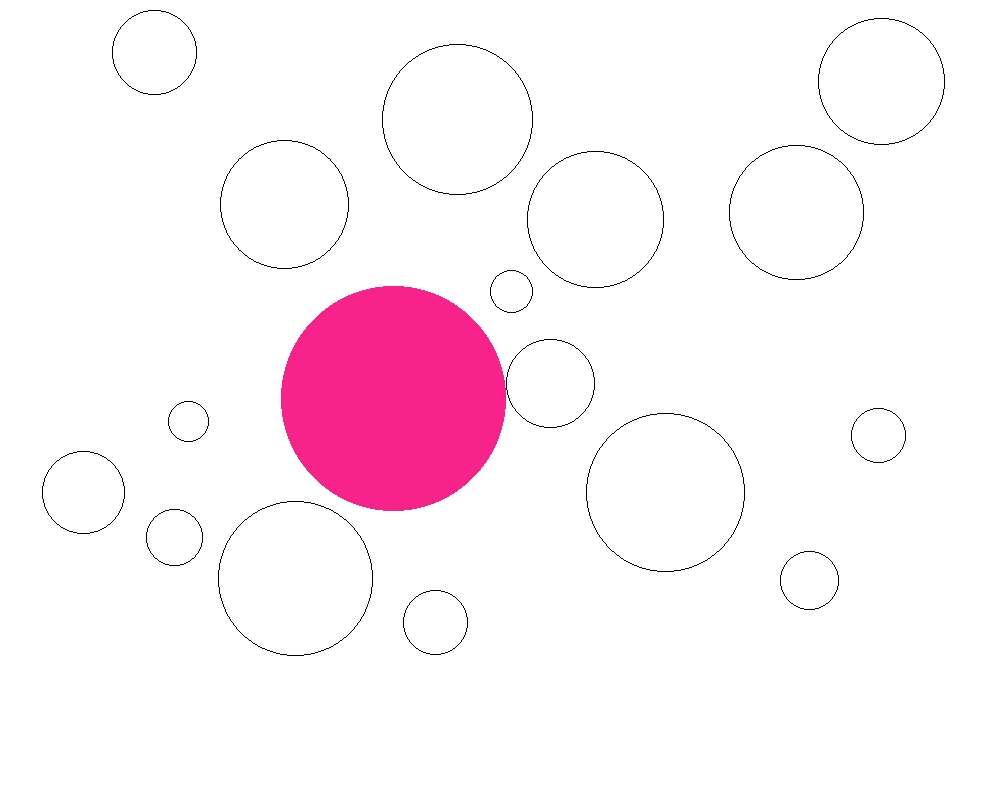
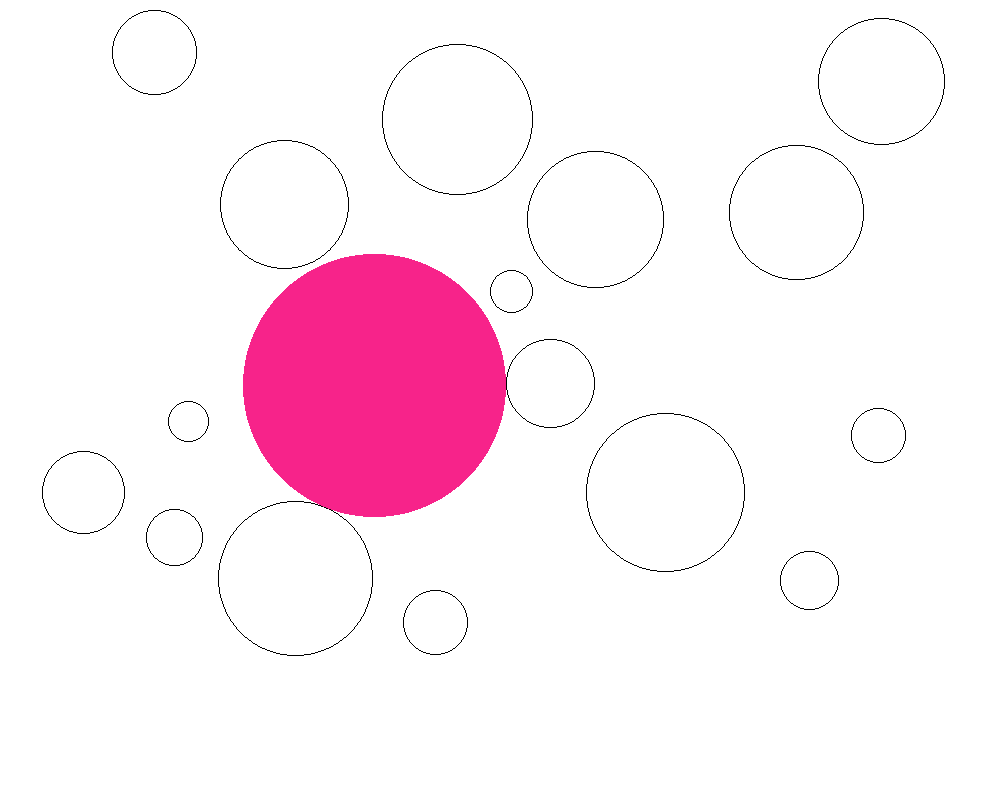
barbie pink biggest circle

Changed region(s): [[0.217, 0.3125, 0.496, 0.6562], [0.496, 0.4375, 0.527, 0.4688], [0.465, 0.5625, 0.496, 0.5938]]

diff --git a/gen5.py b/gen5.py
@@ -31,29 +31,52 @@ def evaluate_circle_size(x, y, radius, other_circles):
         return radius
     return 0
 
-# Algoritmo genético para encontrar el círculo más grande posible sin colisiones
 def genetic_algorithm(circles_data, canvas_width, canvas_height):
-    max_radius = min(canvas_width, canvas_height) // 2  # El radio máximo posible
-    
-    # Inicializar el mejor círculo con el más grande de los círculos existentes
-    best_circle = max(circles_data, key=lambda x: x[2])
+    max_radius = min(canvas_width, canvas_height) // 2
 
-    population_size = 100  # Tamaño de la población
-    generations = 100  # Número de generaciones
+    # Initialize population with random circles
+    population_size = 1500
+    population = [(random.randint(0, canvas_width), random.randint(0, canvas_height), random.randint(1, max_radius)) for _ in range(population_size)]
 
-    for generation in range(1, generations + 1):
-        population = [(random.randint(0, canvas_width), random.randint(0, canvas_height), random.randint(1, max_radius)) for _ in range(population_size)]
-        
-        for circle in population:
-            x, y, radius = circle
-            if radius > max_radius:
-                continue  # Ignorar círculos con un radio mayor que el máximo posible
-            if x - radius < 0 or x + radius > canvas_width or y - radius < 0 or y + radius > canvas_height:
-                continue  # Ignorar círculos que están fuera de los límites del lienzo
+    # Fitness function: Evaluate circle size without collisions
+    def fitness(circle):
+        x, y, radius = circle
+        if x - radius < 0 or x + radius > canvas_width or y - radius < 0 or y + radius > canvas_height:
+            return 0  # Out of bounds
+        return evaluate_circle_size(x, y, radius, circles_data)
 
-            size = evaluate_circle_size(x, y, radius, circles_data)
-            if size > best_circle[2]:
-                best_circle = (x, y, size)
+    generations = 900
+    for generation in range(generations):
+        # Evaluate fitness
+        fitness_scores = [fitness(circle) for circle in population]
+
+        # Selection: Choose top performers as parents
+        parents_indices = sorted(range(len(population)), key=lambda i: fitness_scores[i], reverse=True)[:population_size//2]
+        parents = [population[i] for i in parents_indices]
+
+        # Crossover: Produce offspring from pairs of parents
+        offspring = []
+        while len(offspring) < population_size - len(parents):
+            parent1, parent2 = random.sample(parents, 2)
+            child_x = (parent1[0] + parent2[0]) // 2
+            child_y = (parent1[1] + parent2[1]) // 2
+            child_radius = min((parent1[2] + parent2[2]) // 2, max_radius)
+            offspring.append((child_x, child_y, child_radius))
+
+        # Mutation: Slightly modify some offspring
+        for i in range(len(offspring)):
+            if random.random() < 0.1:  # Mutation probability
+                mutate_radius = offspring[i][2] + random.randint(-2, 2)
+                offspring[i] = (offspring[i][0], offspring[i][1], max(1, min(mutate_radius, max_radius)))
+
+        # Form new generation
+        population = parents + offspring
+
+    # Find the best circle from the last generation
+    best_fitness = max(fitness_scores)
+    best_index = fitness_scores.index(best_fitness)
+    best_circle = population[best_index]
+
 
     # Crear una nueva imagen
     image = Image.new("RGB", (canvas_width, canvas_height), "white")
